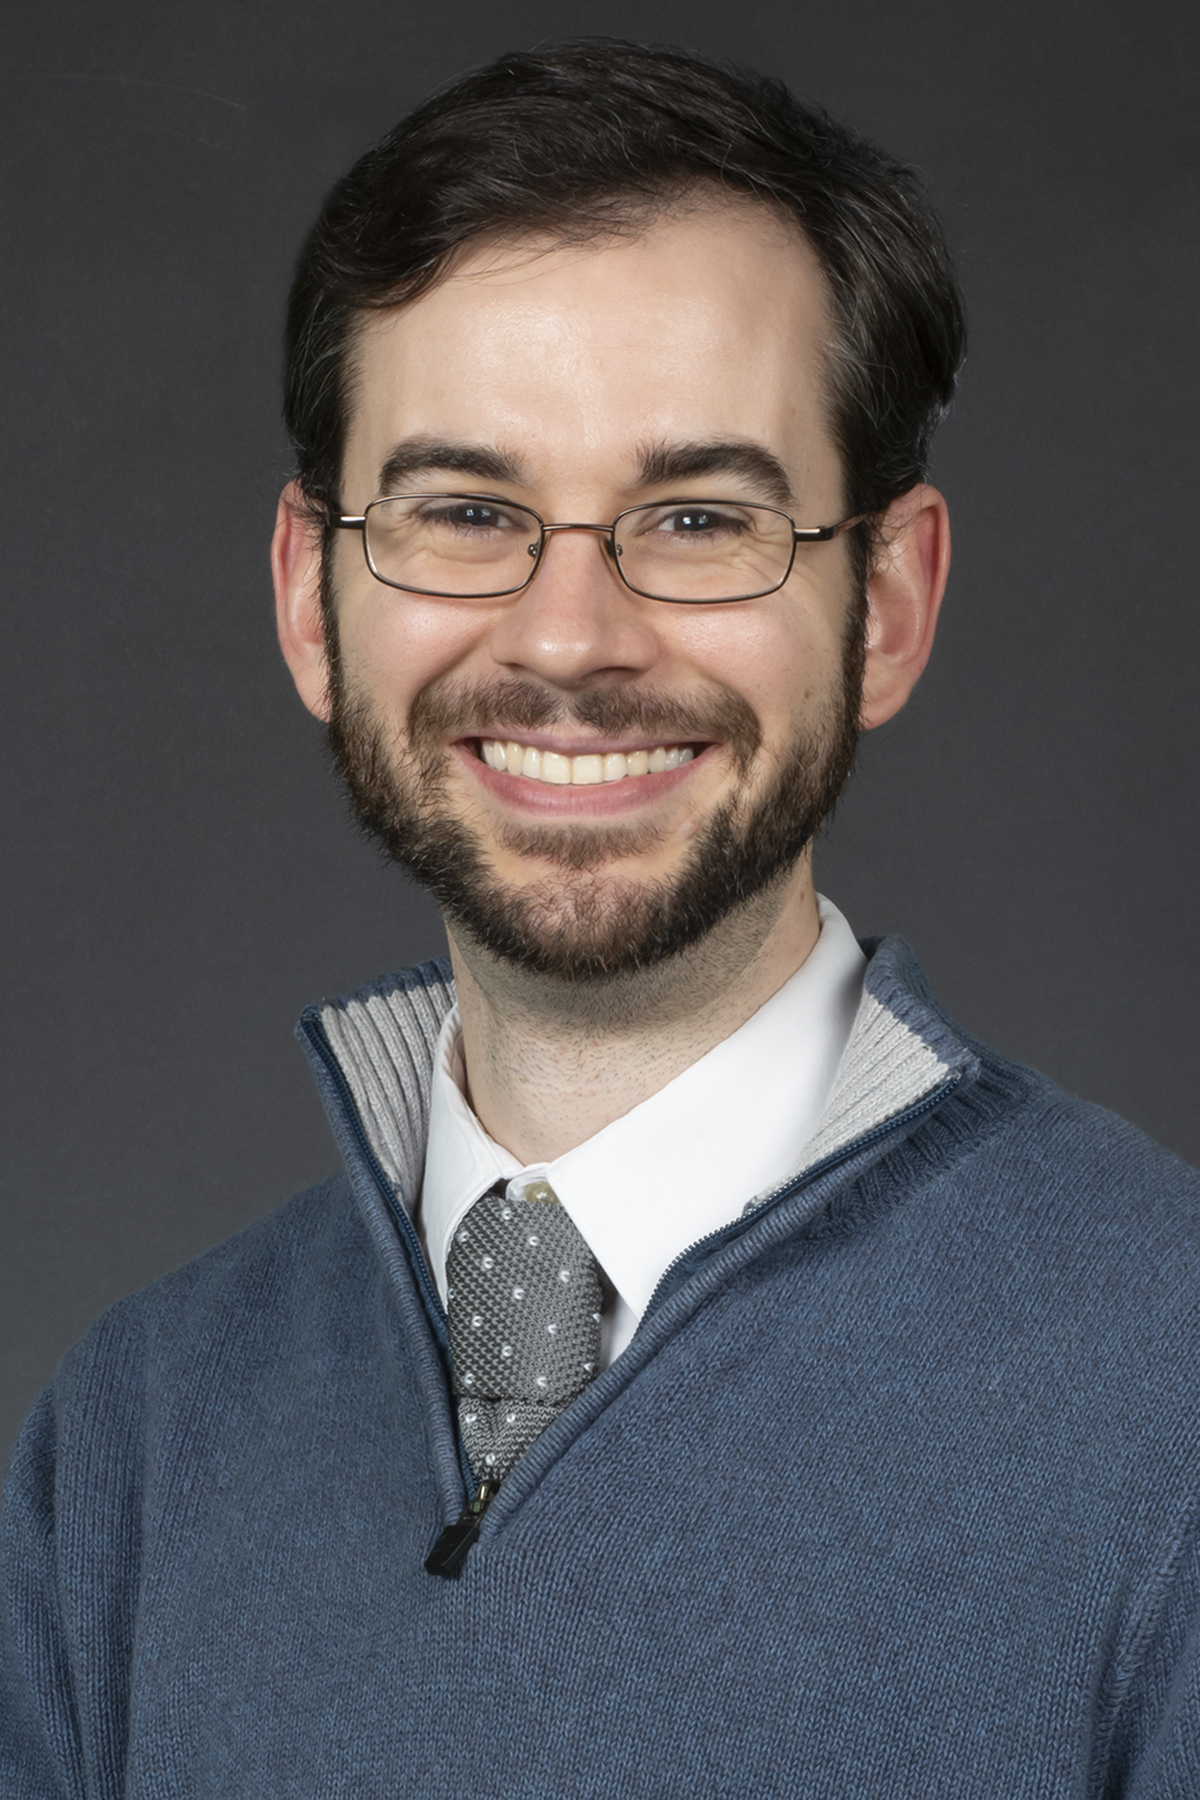
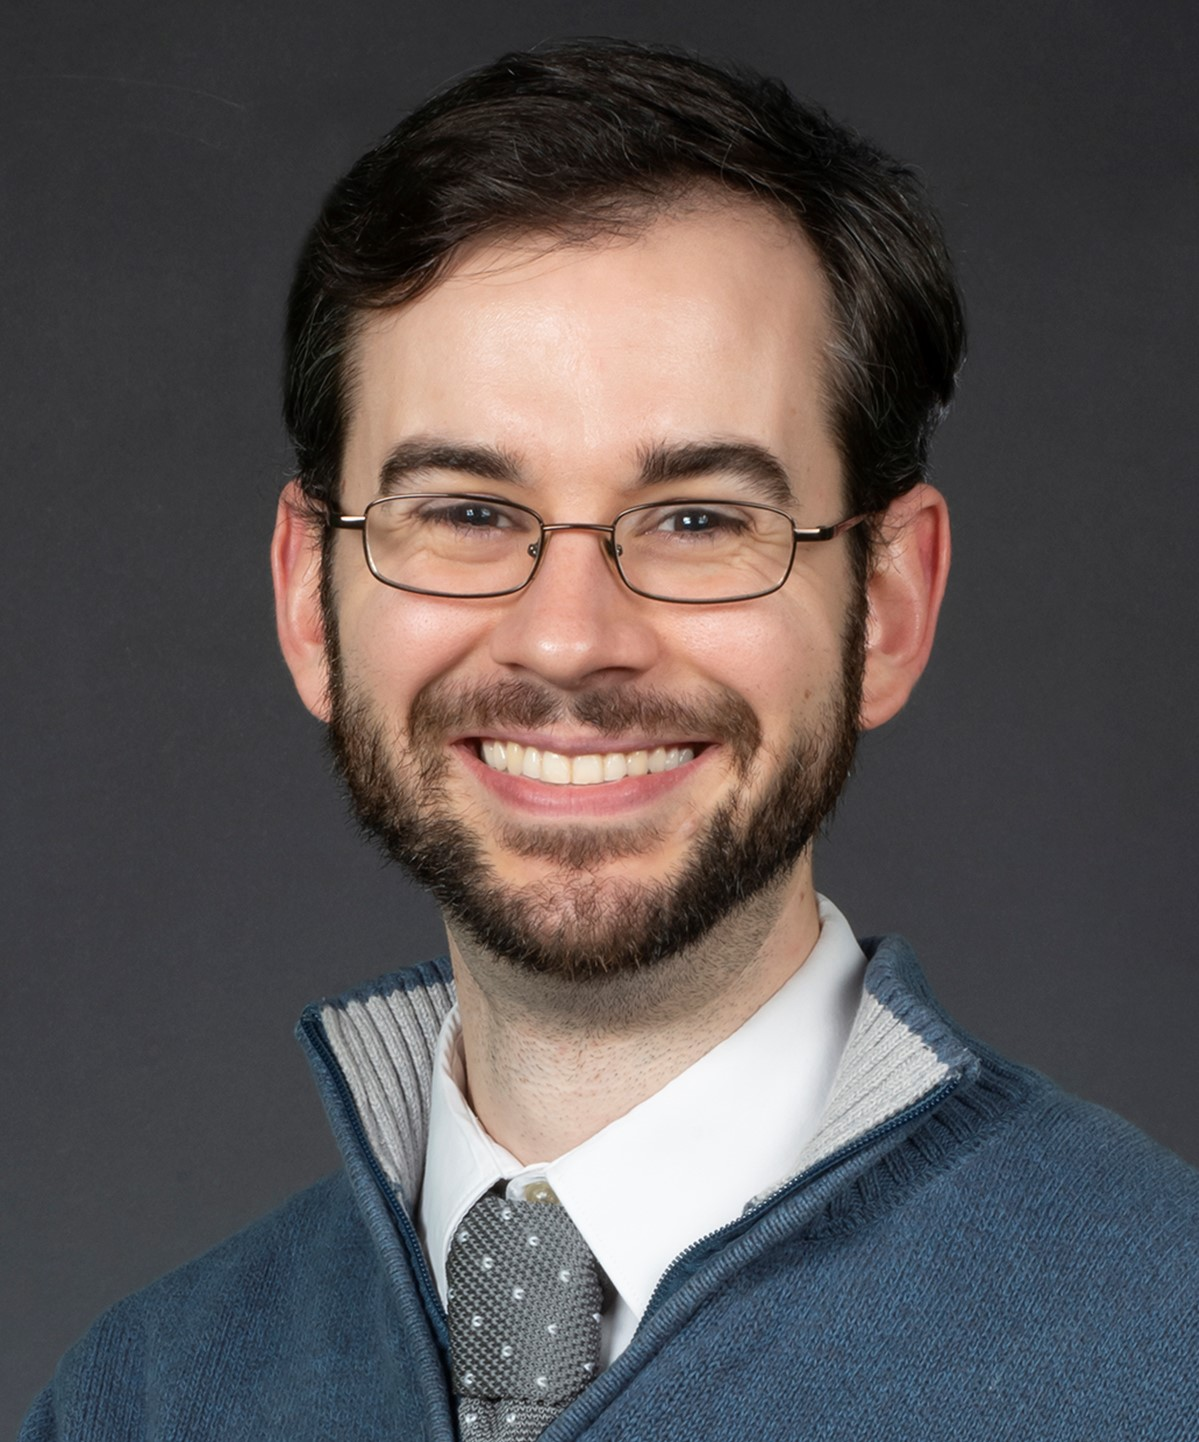
figure

diff --git a/index.html b/index.html
@@ -10,7 +10,7 @@ title: Jeffrey Lienert
 <div class="w3-content" style="max-width:1100px;margin-top:80px;margin-bottom:80px">
 
   <div class="w3-panel">
-  <img src="profile_picture.jpg" alt="Jeffrey Lienert" width="120" height="180" style="float:right;top">
+  <img src="profile.jpg" alt="Jeffrey Lienert" style="float:right;top">
     <h1><b>Jeffrey Lienert</b></h1>
 
   </div>
@@ -51,7 +51,7 @@ title: Jeffrey Lienert
   will include using this type of latent class analysis to optimally allocate participants to different arms of a trial.
 </p>
 
-<p>2</p>
+<p>1</p>
 
 <div itemscope itemtype="https://schema.org/Person"><a itemprop="sameAs" content="https://orcid.org/0000-0002-8534-8377" href="https://orcid.org/0000-0002-8534-8377" target="orcid.widget" rel="noopener noreferrer" style="vertical-align:top;"><img src="https://orcid.org/sites/default/files/images/orcid_16x16.png" style="width:1em;margin-right:.5em;" alt="ORCID iD icon">orcid.org/0000-0002-8534-8377</a></div>
   </div>
